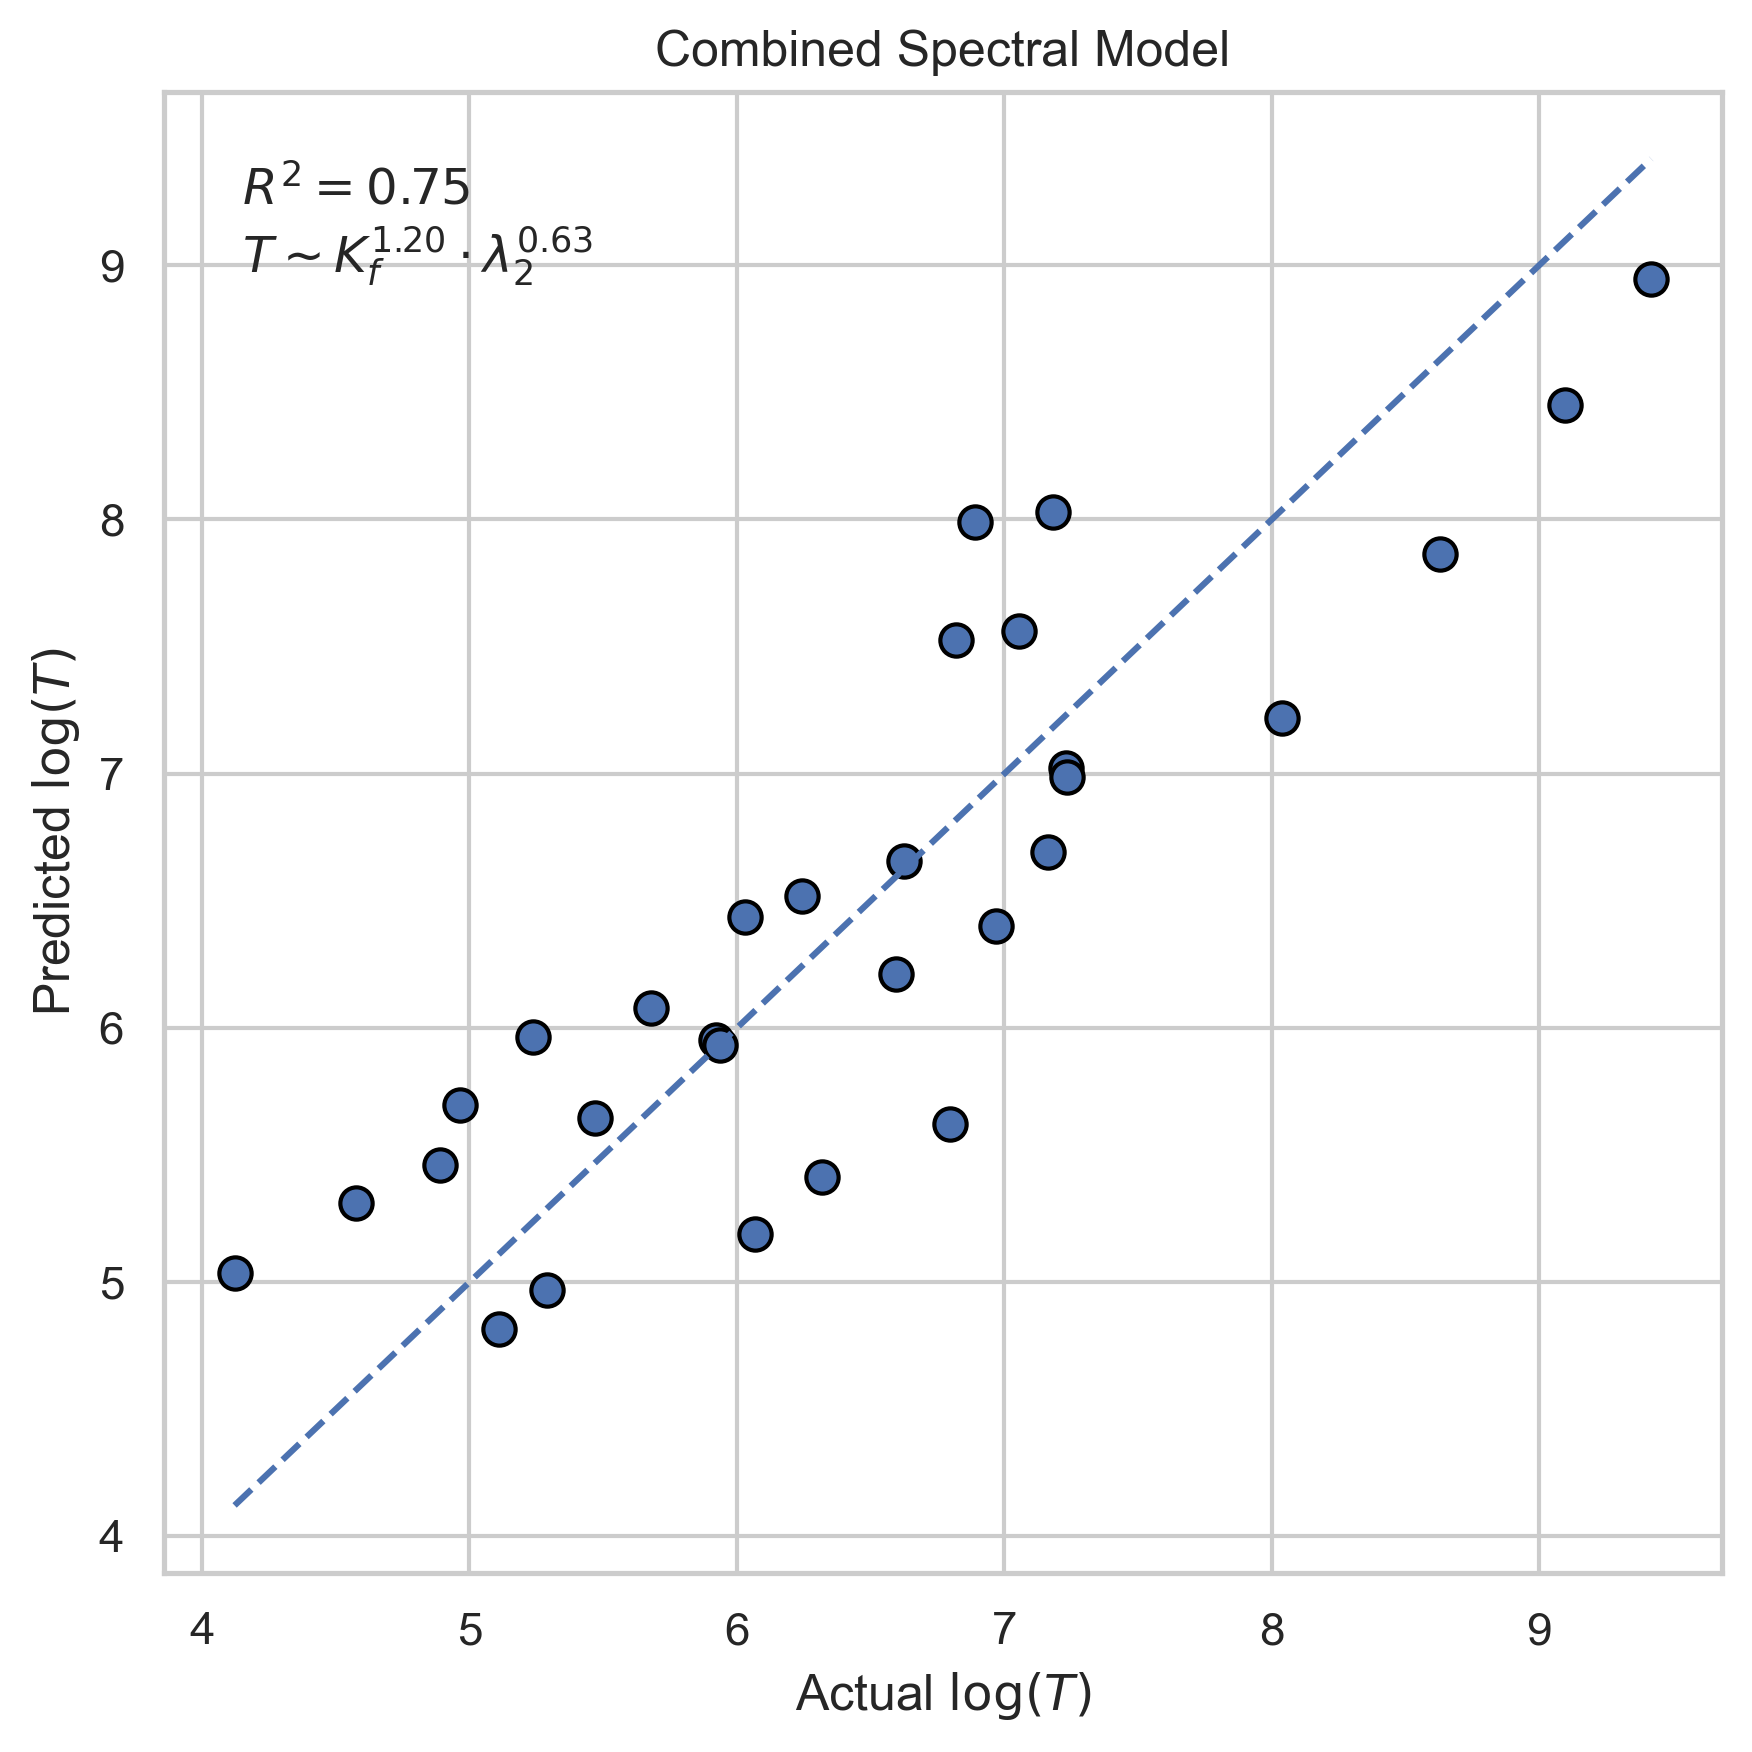
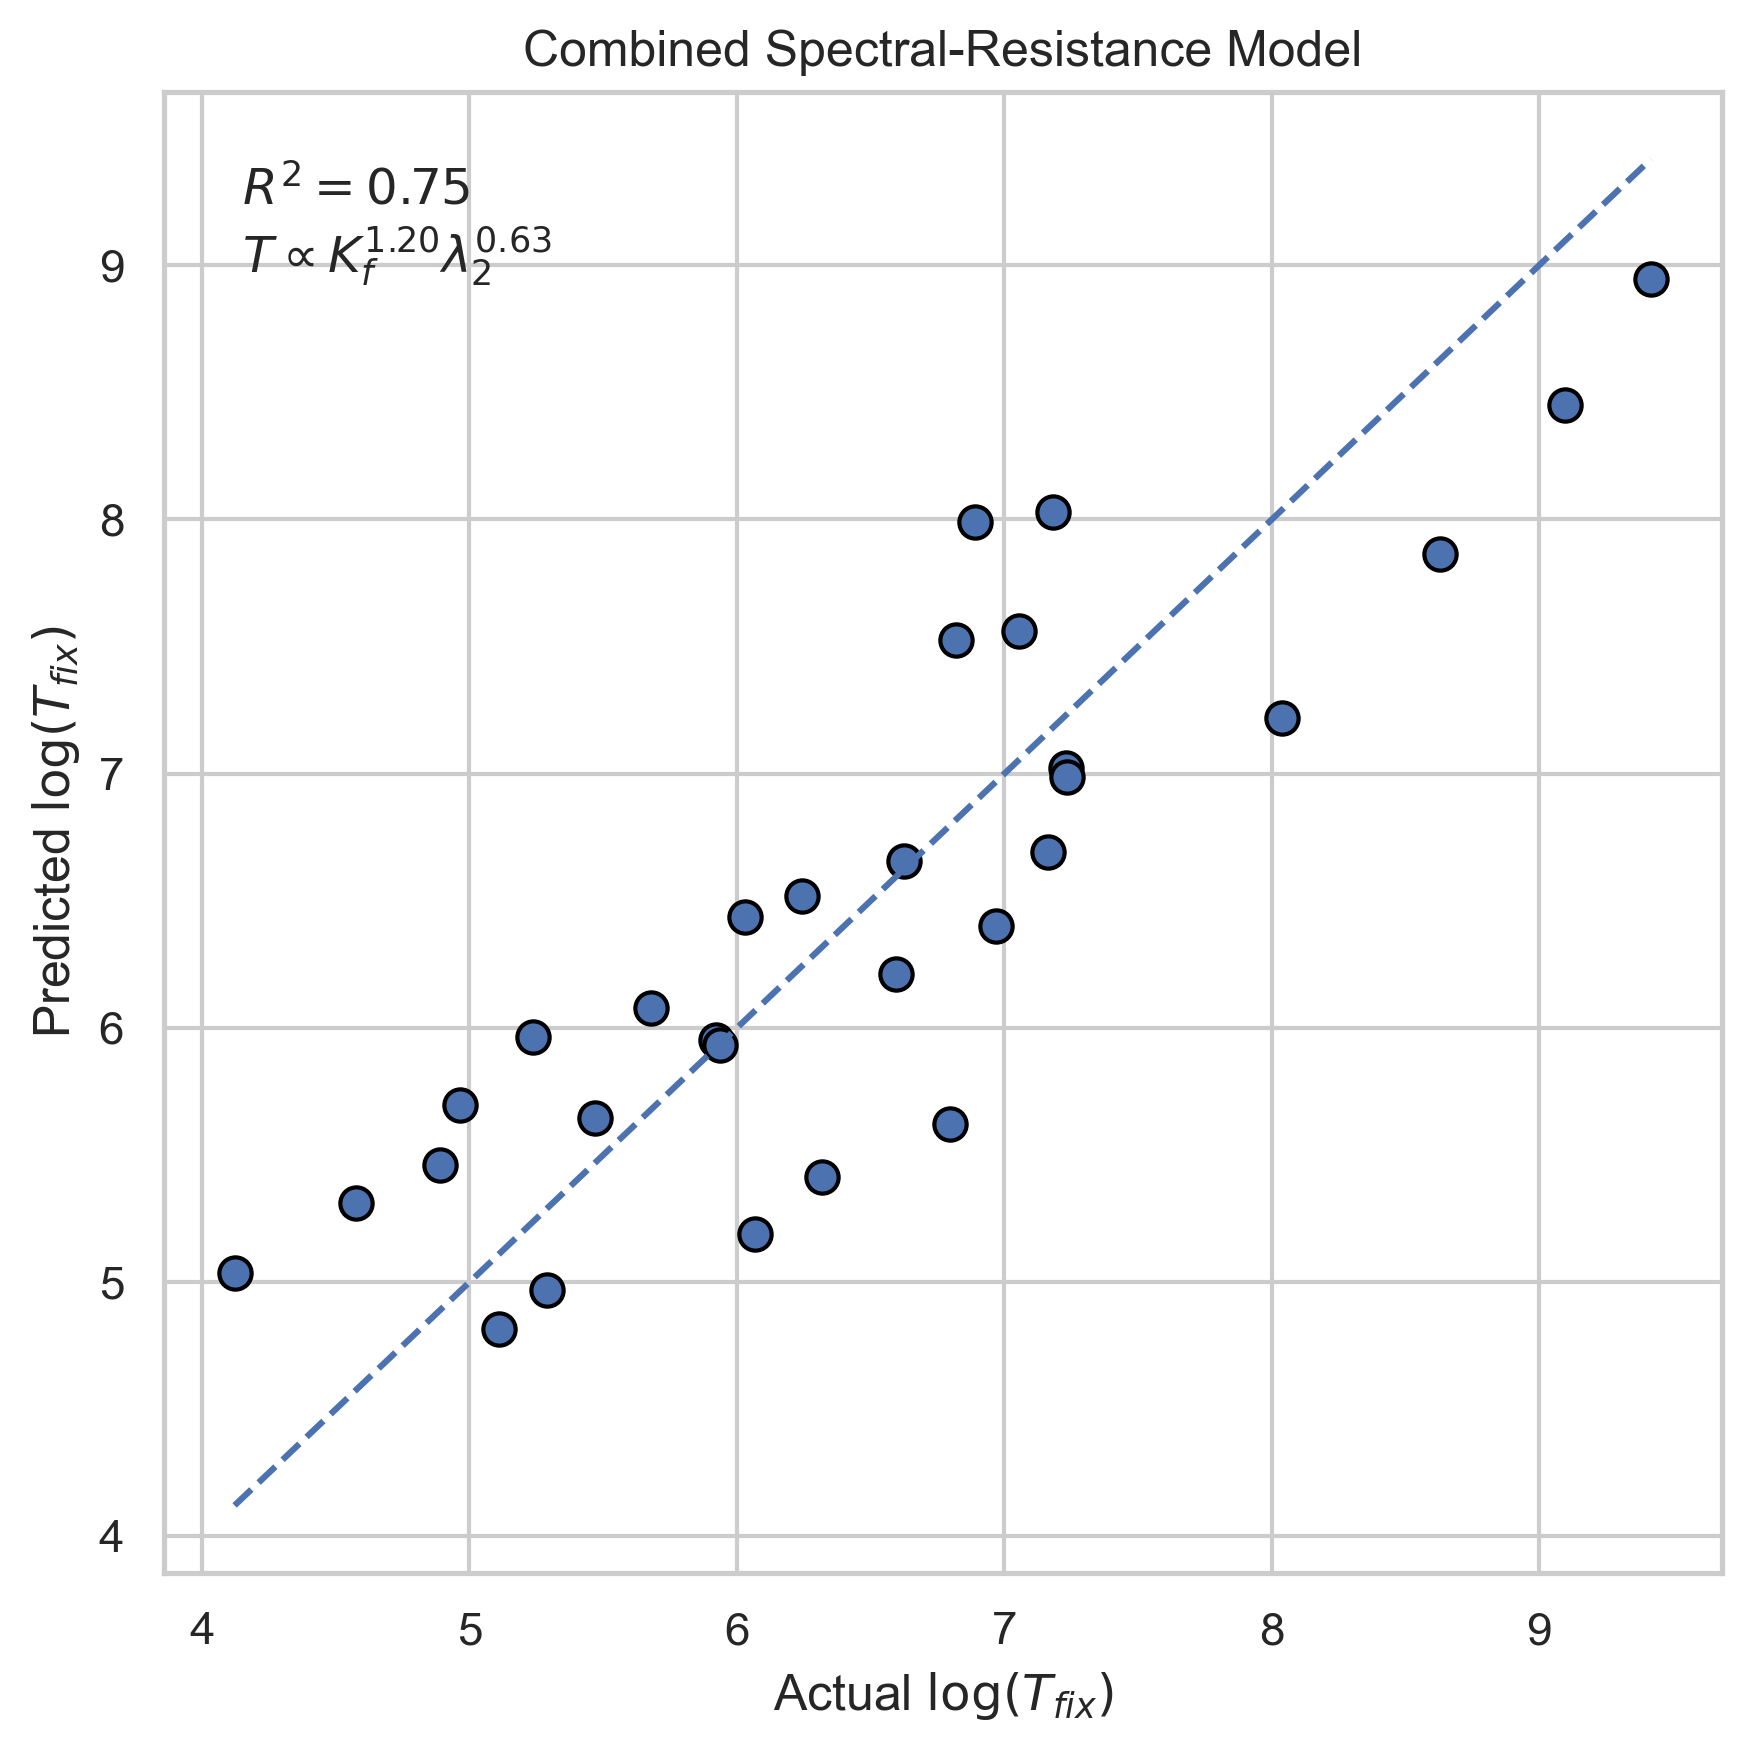
Add final publication-quality analysis with combined spectral-resistance model
- Robust data loading and path handling
- Improved global and per-graph plots (PNG + PDF)
- Introduced combined model: T ∝ Kf^1.20 λ2^0.63 (R^2 ≈ 0.75)
- Fixed labels, formatting, and reproducibility issues

diff --git a/experiments/analyze_results.py b/experiments/analyze_results.py
@@ -1,27 +1,29 @@
+import os
 import pandas as pd
 import numpy as np
 import matplotlib.pyplot as plt
 import seaborn as sns
-import os
 from scipy.stats import linregress
 from sklearn.linear_model import LinearRegression
 
 # -------------------------------
-# CONFIG
+# CONFIG (ROBUST PATHS)
 # -------------------------------
 BASE_DIR = os.path.dirname(os.path.dirname(os.path.abspath(__file__)))
-RESULT_FILE = os.path.join(BASE_DIR, "data", "results_with_resistance.csv")   # make sure this exists
-OUTPUT_DIR = "figures"
+DATA_FILE = os.path.join(BASE_DIR, "data", "results_with_resistance.csv")
+OUTPUT_DIR = os.path.join(BASE_DIR, "figures")
+
+os.makedirs(OUTPUT_DIR, exist_ok=True)
 
 sns.set_theme(style="whitegrid")
 
 # -------------------------------
 # LOAD DATA
 # -------------------------------
-df = pd.read_csv(RESULT_FILE)
+df = pd.read_csv(DATA_FILE)
 
-# Basic cleaning
-df = df[(df["lambda2"] > 0) & (df["mean_fixation"] > 0)]
+# Clean data
+df = df[(df["lambda2"] > 0) & (df["mean_fixation"] > 0) & (df["kirchhoff"] > 0)]
 
 # Log transforms
 df["log_lambda2"] = np.log(df["lambda2"])
@@ -29,70 +31,80 @@ df["log_kf"] = np.log(df["kirchhoff"])
 df["log_T"] = np.log(df["mean_fixation"])
 
 # -------------------------------
-# CREATE OUTPUT DIR
-# -------------------------------
-import os
-os.makedirs(OUTPUT_DIR, exist_ok=True)
-
-# -------------------------------
-# 1. GLOBAL PLOTS
+# 1. GLOBAL ANALYSIS
 # -------------------------------
 fig, axes = plt.subplots(1, 2, figsize=(12, 5), dpi=300)
 
-# ---- λ2 plot ----
+# ---- Spectral Gap ----
 ax = axes[0]
 x = df["log_lambda2"]
 y = df["log_T"]
 
 slope, intercept, r_value, _, _ = linregress(x, y)
 
-sns.scatterplot(data=df, x="log_lambda2", y="log_T",
-                hue="graph", style="graph", ax=ax, s=60, legend=False)
+sns.scatterplot(
+    data=df,
+    x="log_lambda2",
+    y="log_T",
+    hue="graph",
+    style="graph",
+    s=60,
+    legend=False,
+    ax=ax
+)
 
 ax.plot(x, intercept + slope * x, linestyle='--', color='black')
 
-ax.set_title("(a) Spectral Gap", fontsize=12)
+ax.set_title("(a) Spectral Gap")
 ax.set_xlabel(r"$\log(\lambda_2)$")
 ax.set_ylabel(r"$\log(T_{fix})$")
 
 ax.text(
     0.05, 0.95,
     f"$R^2 = {r_value**2:.2f}$\n"
-    f"$T \\sim \\lambda_2^{{{slope:.2f}}}$",
+    f"$T \\propto \\lambda_2^{{{slope:.2f}}}$",
     transform=ax.transAxes,
     verticalalignment='top'
 )
 
-# ---- Kirchhoff plot ----
+# ---- Kirchhoff ----
 ax = axes[1]
 x = df["log_kf"]
 y = df["log_T"]
 
 slope, intercept, r_value, _, _ = linregress(x, y)
 
-sns.scatterplot(data=df, x="log_kf", y="log_T",
-                hue="graph", style="graph", ax=ax, s=60)
+sns.scatterplot(
+    data=df,
+    x="log_kf",
+    y="log_T",
+    hue="graph",
+    style="graph",
+    s=60,
+    ax=ax
+)
 
 ax.plot(x, intercept + slope * x, linestyle='--', color='black')
 
-ax.set_title("(b) Effective Resistance", fontsize=12)
+ax.set_title("(b) Effective Resistance")
 ax.set_xlabel(r"$\log(K_f)$")
 ax.set_ylabel(r"$\log(T_{fix})$")
 
 ax.text(
     0.05, 0.95,
     f"$R^2 = {r_value**2:.2f}$\n"
-    f"$T \\sim K_f^{{{slope:.2f}}}$",
+    f"$T \\propto K_f^{{{slope:.2f}}}$",
     transform=ax.transAxes,
     verticalalignment='top'
 )
 
 plt.tight_layout()
-plt.savefig(f"{OUTPUT_DIR}/global_analysis.png", bbox_inches='tight')
+plt.savefig(os.path.join(OUTPUT_DIR, "global_analysis.png"), bbox_inches='tight')
+plt.savefig(os.path.join(OUTPUT_DIR, "global_analysis.pdf"), bbox_inches='tight')
 plt.close()
 
 # -------------------------------
-# 2. PER-GRAPH PANELS
+# 2. PER-GRAPH ANALYSIS
 # -------------------------------
 graphs = df["graph"].unique()
 
@@ -103,7 +115,6 @@ for i, g in enumerate(graphs):
     ax = axes[i]
     sub = df[df["graph"] == g]
 
-    # Skip degenerate cases
     if sub["kirchhoff"].nunique() < 2:
         ax.set_visible(False)
         continue
@@ -116,7 +127,7 @@ for i, g in enumerate(graphs):
     ax.scatter(x, y, s=50, edgecolor='black')
     ax.plot(x, intercept + slope * x, linestyle='--', color='black')
 
-    ax.set_title(f"{g}", fontsize=11)
+    ax.set_title(g)
 
     ax.text(
         0.05, 0.9,
@@ -127,17 +138,16 @@ for i, g in enumerate(graphs):
     )
 
     ax.set_xlabel(r"$\log(K_f)$")
-    ax.set_ylabel(r"$\log(T)$")
+    ax.set_ylabel(r"$\log(T_{fix})$")
 
 plt.tight_layout()
-plt.savefig(f"{OUTPUT_DIR}/per_graph_analysis.png", bbox_inches='tight')
+plt.savefig(os.path.join(OUTPUT_DIR, "per_graph_analysis.png"), bbox_inches='tight')
+plt.savefig(os.path.join(OUTPUT_DIR, "per_graph_analysis.pdf"), bbox_inches='tight')
 plt.close()
 
 # -------------------------------
 # 3. ⭐ COMBINED MODEL (MAIN RESULT)
 # -------------------------------
-
-# Model: log(T) = a*log(Kf) + b*log(lambda2) + c
 X = df[["log_kf", "log_lambda2"]]
 y = df["log_T"]
 
@@ -146,12 +156,9 @@ model.fit(X, y)
 
 r2 = model.score(X, y)
 coef_kf, coef_lambda = model.coef_
-intercept = model.intercept_
 
-# Predictions
 y_pred = model.predict(X)
 
-# Plot predicted vs actual
 plt.figure(figsize=(6, 6), dpi=300)
 
 plt.scatter(y, y_pred, s=60, edgecolor='black')
@@ -161,27 +168,27 @@ min_val = min(y.min(), y_pred.min())
 max_val = max(y.max(), y_pred.max())
 plt.plot([min_val, max_val], [min_val, max_val], linestyle='--')
 
-plt.xlabel(r"Actual $\log(T)$")
-plt.ylabel(r"Predicted $\log(T)$")
-plt.title("Combined Spectral Model")
+plt.xlabel(r"Actual $\log(T_{fix})$")
+plt.ylabel(r"Predicted $\log(T_{fix})$")
+plt.title("Combined Spectral-Resistance Model")
 
 plt.text(
     0.05, 0.95,
     f"$R^2 = {r2:.2f}$\n"
-    f"$T \\sim K_f^{{{coef_kf:.2f}}} \\cdot \\lambda_2^{{{coef_lambda:.2f}}}$",
+    f"$T \\propto K_f^{{{coef_kf:.2f}}} \\lambda_2^{{{coef_lambda:.2f}}}$",
     transform=plt.gca().transAxes,
     verticalalignment='top'
 )
 
 plt.tight_layout()
-plt.savefig(f"{OUTPUT_DIR}/combined_model.png", bbox_inches='tight')
+plt.savefig(os.path.join(OUTPUT_DIR, "combined_model.png"), bbox_inches='tight')
+plt.savefig(os.path.join(OUTPUT_DIR, "combined_model.pdf"), bbox_inches='tight')
 plt.close()
 
 # -------------------------------
-# PRINT MODEL SUMMARY
+# PRINT SUMMARY
 # -------------------------------
 print("\n===== COMBINED MODEL =====")
 print(f"R^2: {r2:.4f}")
 print(f"Coefficient (log Kf): {coef_kf:.4f}")
 print(f"Coefficient (log lambda2): {coef_lambda:.4f}")
-print(f"Intercept: {intercept:.4f}")